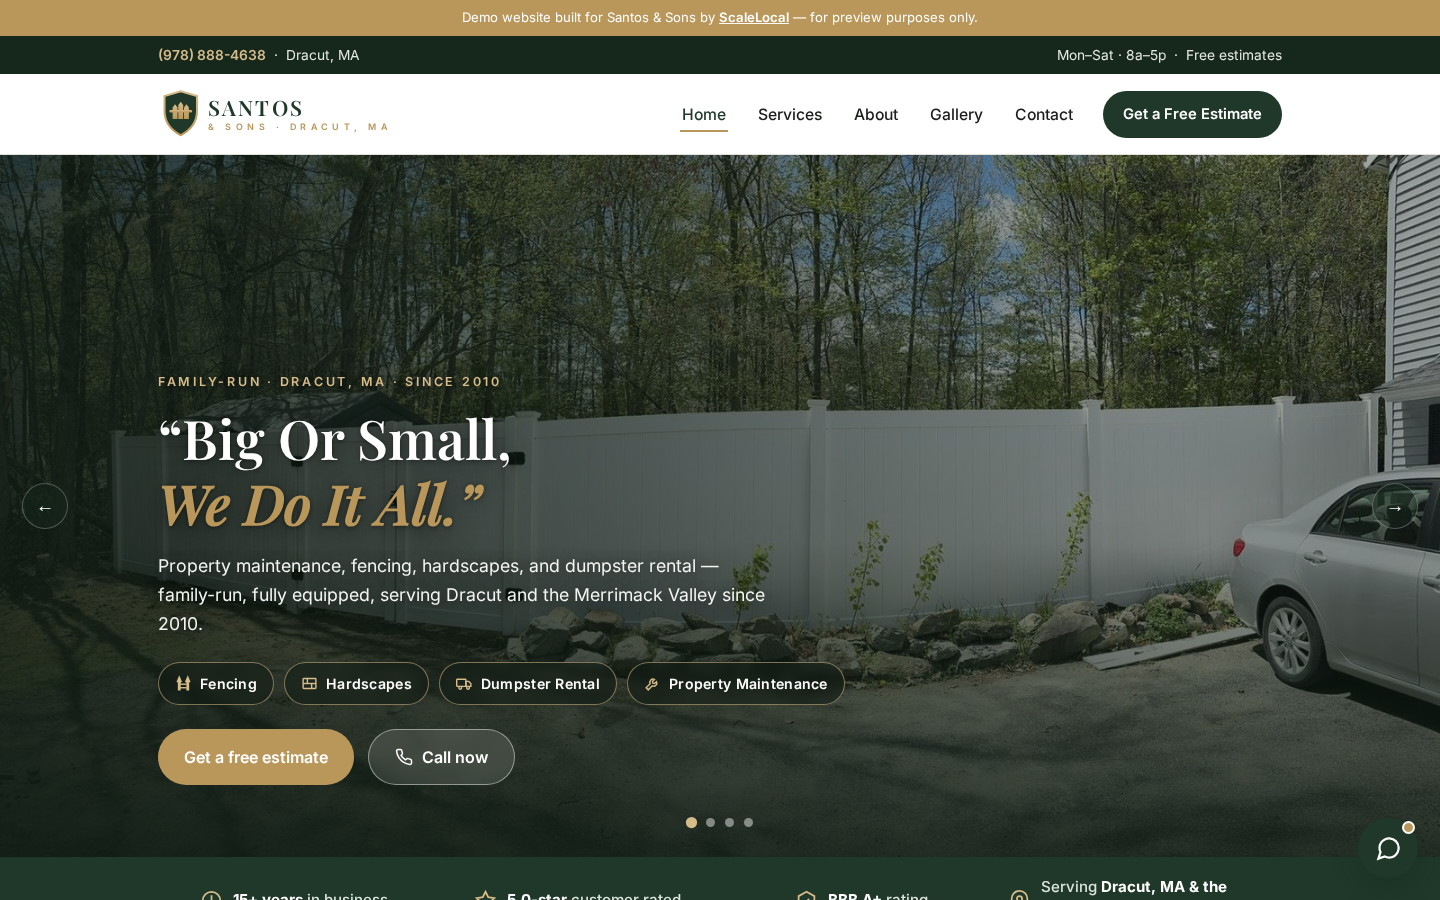
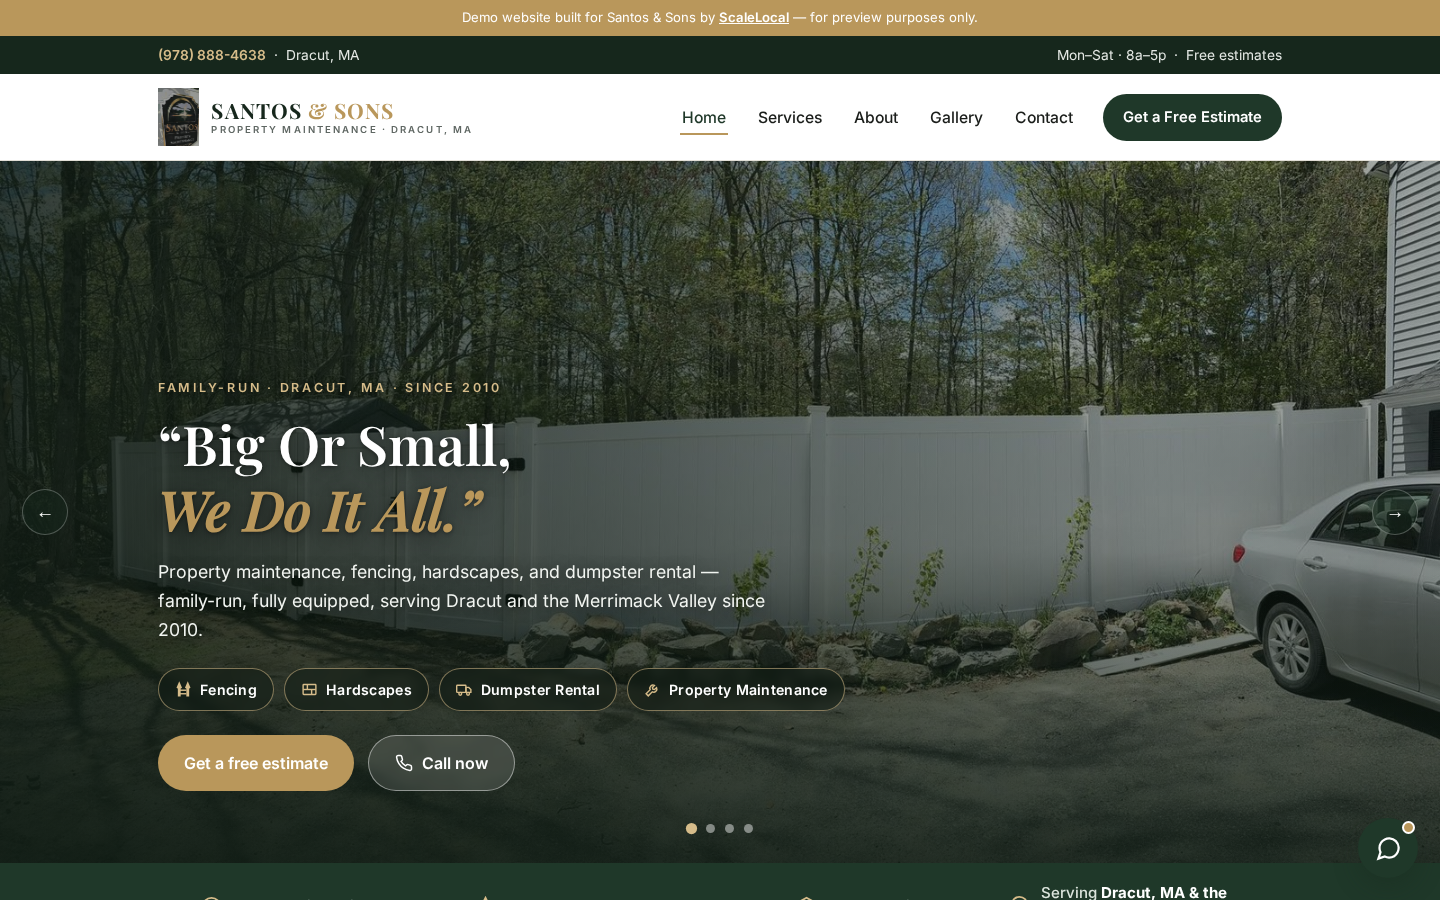
Santos & Sons: docs + screenshots for brand pass / caption-audit revision

diff --git a/test-builds/santos-and-sons/COMPLETION_REPORT.md b/test-builds/santos-and-sons/COMPLETION_REPORT.md
@@ -58,3 +58,13 @@ Matt's feedback: homepage read fence-only and undersold a multi-million-dollar, 
 - Copy elevated from "small crew" to "family-run, fully equipped" — own crews/fleet/equipment, residential + commercial — per Matt's direction (qualitative only; no headcount/revenue/truck-count claims). Index title/description, footer, services lead, about page updated to name all four lines.
 - GHL setup pack bot/voice knowledge updated to match the scale framing.
 Commits: `41f7747` (reposition) + this revision. Screenshots in `screenshots/` refreshed.
+
+## Revision — 2026-06-11 (brand pass + image-caption audit fix)
+Matt flagged that 3 of 4 homepage service cards used fence photos as stand-ins, and requested branded link previews (FB/Twitter/iOS) + the real crest as the site logo.
+- **Image-caption audit resolved:** Hardscapes card/section now uses a real finished paver patio; Property Maintenance card + about page use their crested "Property Maintenance Division" trailer; Dumpster Rental card is icon-led (honest — still no dumpster photo); Fencing keeps the true gate photo. Source: GBP photos mirrored on Wheree (full URLs in RESEARCH_NOTES §8).
+- **Gallery 8 → 13 photos**, all captions subject-accurate (3 hardscape, fleet trailer, vinyl run added).
+- **Link previews:** og:title/description/image + twitter:card on all 6 pages; og-image.jpg is a 1200×630 sign-style card (SANTOS & SONS · Property Maintenance · 5.0 stars · Local & Family-Run · Dracut, MA · Fencing/Hardscapes/Cleanouts/Dumpster Rentals · tagline + phone). iOS: apple-touch-icon 180px; favicons 32/16 from the real crest.
+- **Logo:** real crest (from trailer wrap photo) in header + footer; placeholder SVG retired. Crest v2 upgrade pending Matt's clean sign-art file.
+- **Services page:** maintenance section now lists trailer-verified offerings (mowing, cleanups, tree service, snow plowing, landscape design).
+- Open: real dumpster photo + GBP review quotes still blocked on browser permissions (sticky deny on facebook.com network reads); fbid list + method documented for a 10-min finish.
+Commit: `3d1b628`.

diff --git a/test-builds/santos-and-sons/RESEARCH_NOTES.md b/test-builds/santos-and-sons/RESEARCH_NOTES.md
@@ -90,3 +90,18 @@ NOT claimed anywhere verifiable: snow removal, lawn mowing programs, irrigation 
 - https://reviews.birdeye.com/santos-and-sons-property-maintenance-165062243635801
 - https://www.chamberofcommerce.com/business-directory/massachusetts/dracut/landscaper/2017004159-santos-and-sons-property-maintenance (via search snippet)
 - https://santos-and-sons-property-maintenance.wheree.com/ (used ONLY for Google Maps embed ID + hours cross-check; its AI-generated review summary was not treated as fact)
+
+## 8. Addendum — 2026-06-11 GBP photo mirror + trailer services (sources verified)
+
+**New photo source:** Wheree business listing mirrors GBP-uploaded photos (static.where-e.com, fetched 2026-06-11). 7 files; 5 usable at 1000px:
+| File | Content | Site use |
+|---|---|---|
+| fe94d…45d8 | Finished paver patio w/ stone border | service-hardscape.jpg, gallery-09 |
+| 0b6d6…c267 | Patio base install between fence + deck | gallery-10 |
+| 75a6a…7737 | Patio install from deck | gallery-11 |
+| 553f5…3afb | **Enclosed trailer, full crest wrap, "PROPERTY MAINTENANCE DIVISION" + phone + tagline + services list** | service-maintenance.jpg, gallery-12, about page, crest/logo/favicon source |
+| 3d0bc…78e2 | Long vinyl privacy run, open lawn | gallery-13 |
+
+**Trailer wrap services list (their own fleet advertising, verbatim):** MOWING SERVICES · LANDSCAPE DESIGN · CLEAN UPS · HARDSCAPE · TREE SERVICE · DUMP SERVICE · FENCING · SNOW PLOWING — added to the services page maintenance section. Also confirms "Property Maintenance Division" branding and (per Matt) multi-truck fleet scale.
+
+**Brand assets built:** real crest (perspective-eased crop from trailer wrap) → site logo `logo-crest.png`, `apple-touch-icon.png`, `favicon-32/16.png`. OG/Twitter preview `og-image.jpg` (1200×630) built typographically in their sign language (green/gold, 5.0 stars, services line, tagline, phone). **Upgrade path:** swap crest from Matt's clean sign-art file when provided (drop into Documents\Claude).
